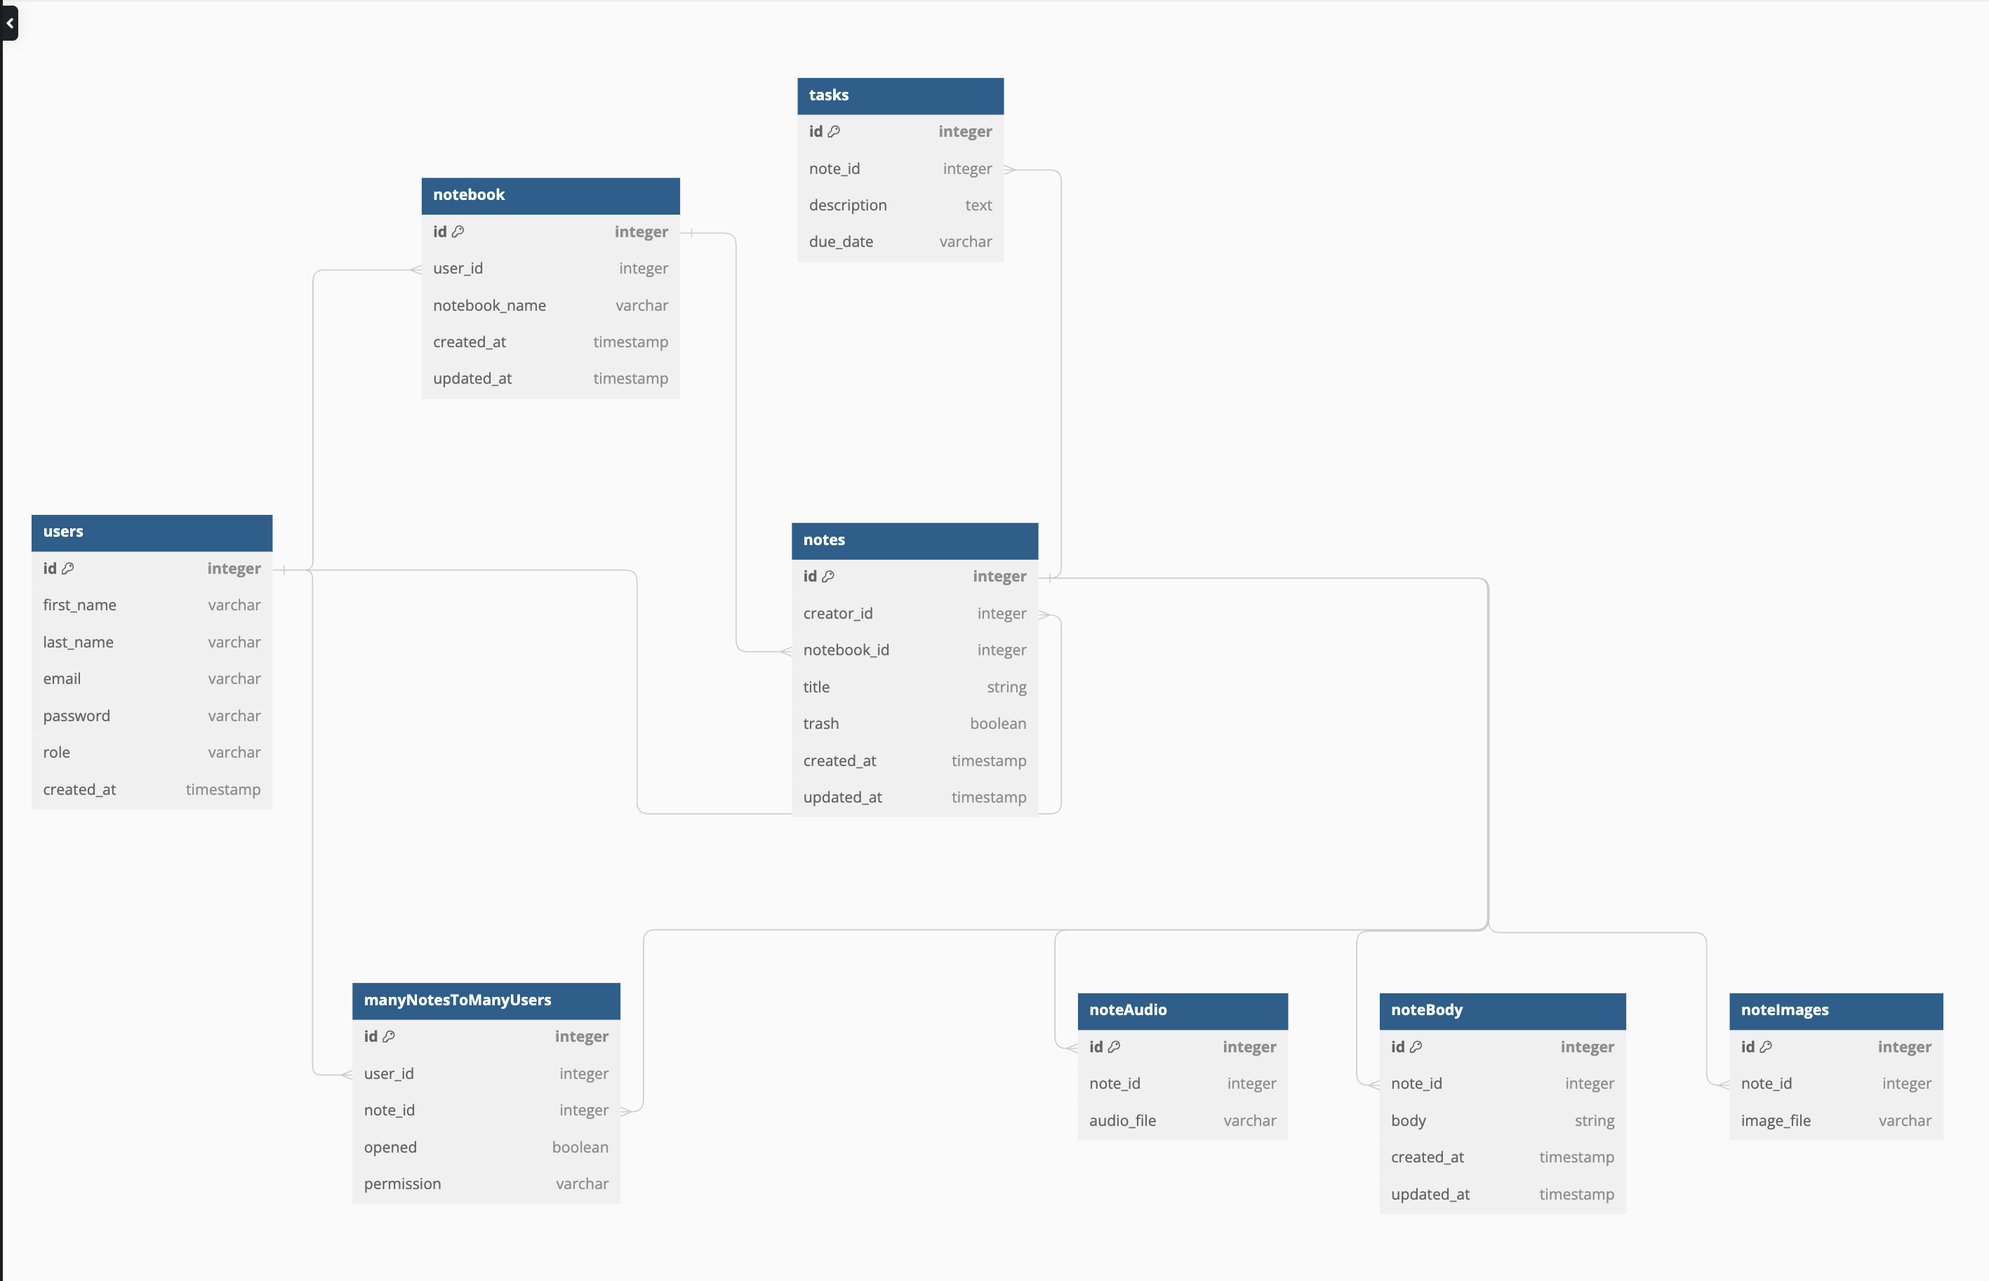
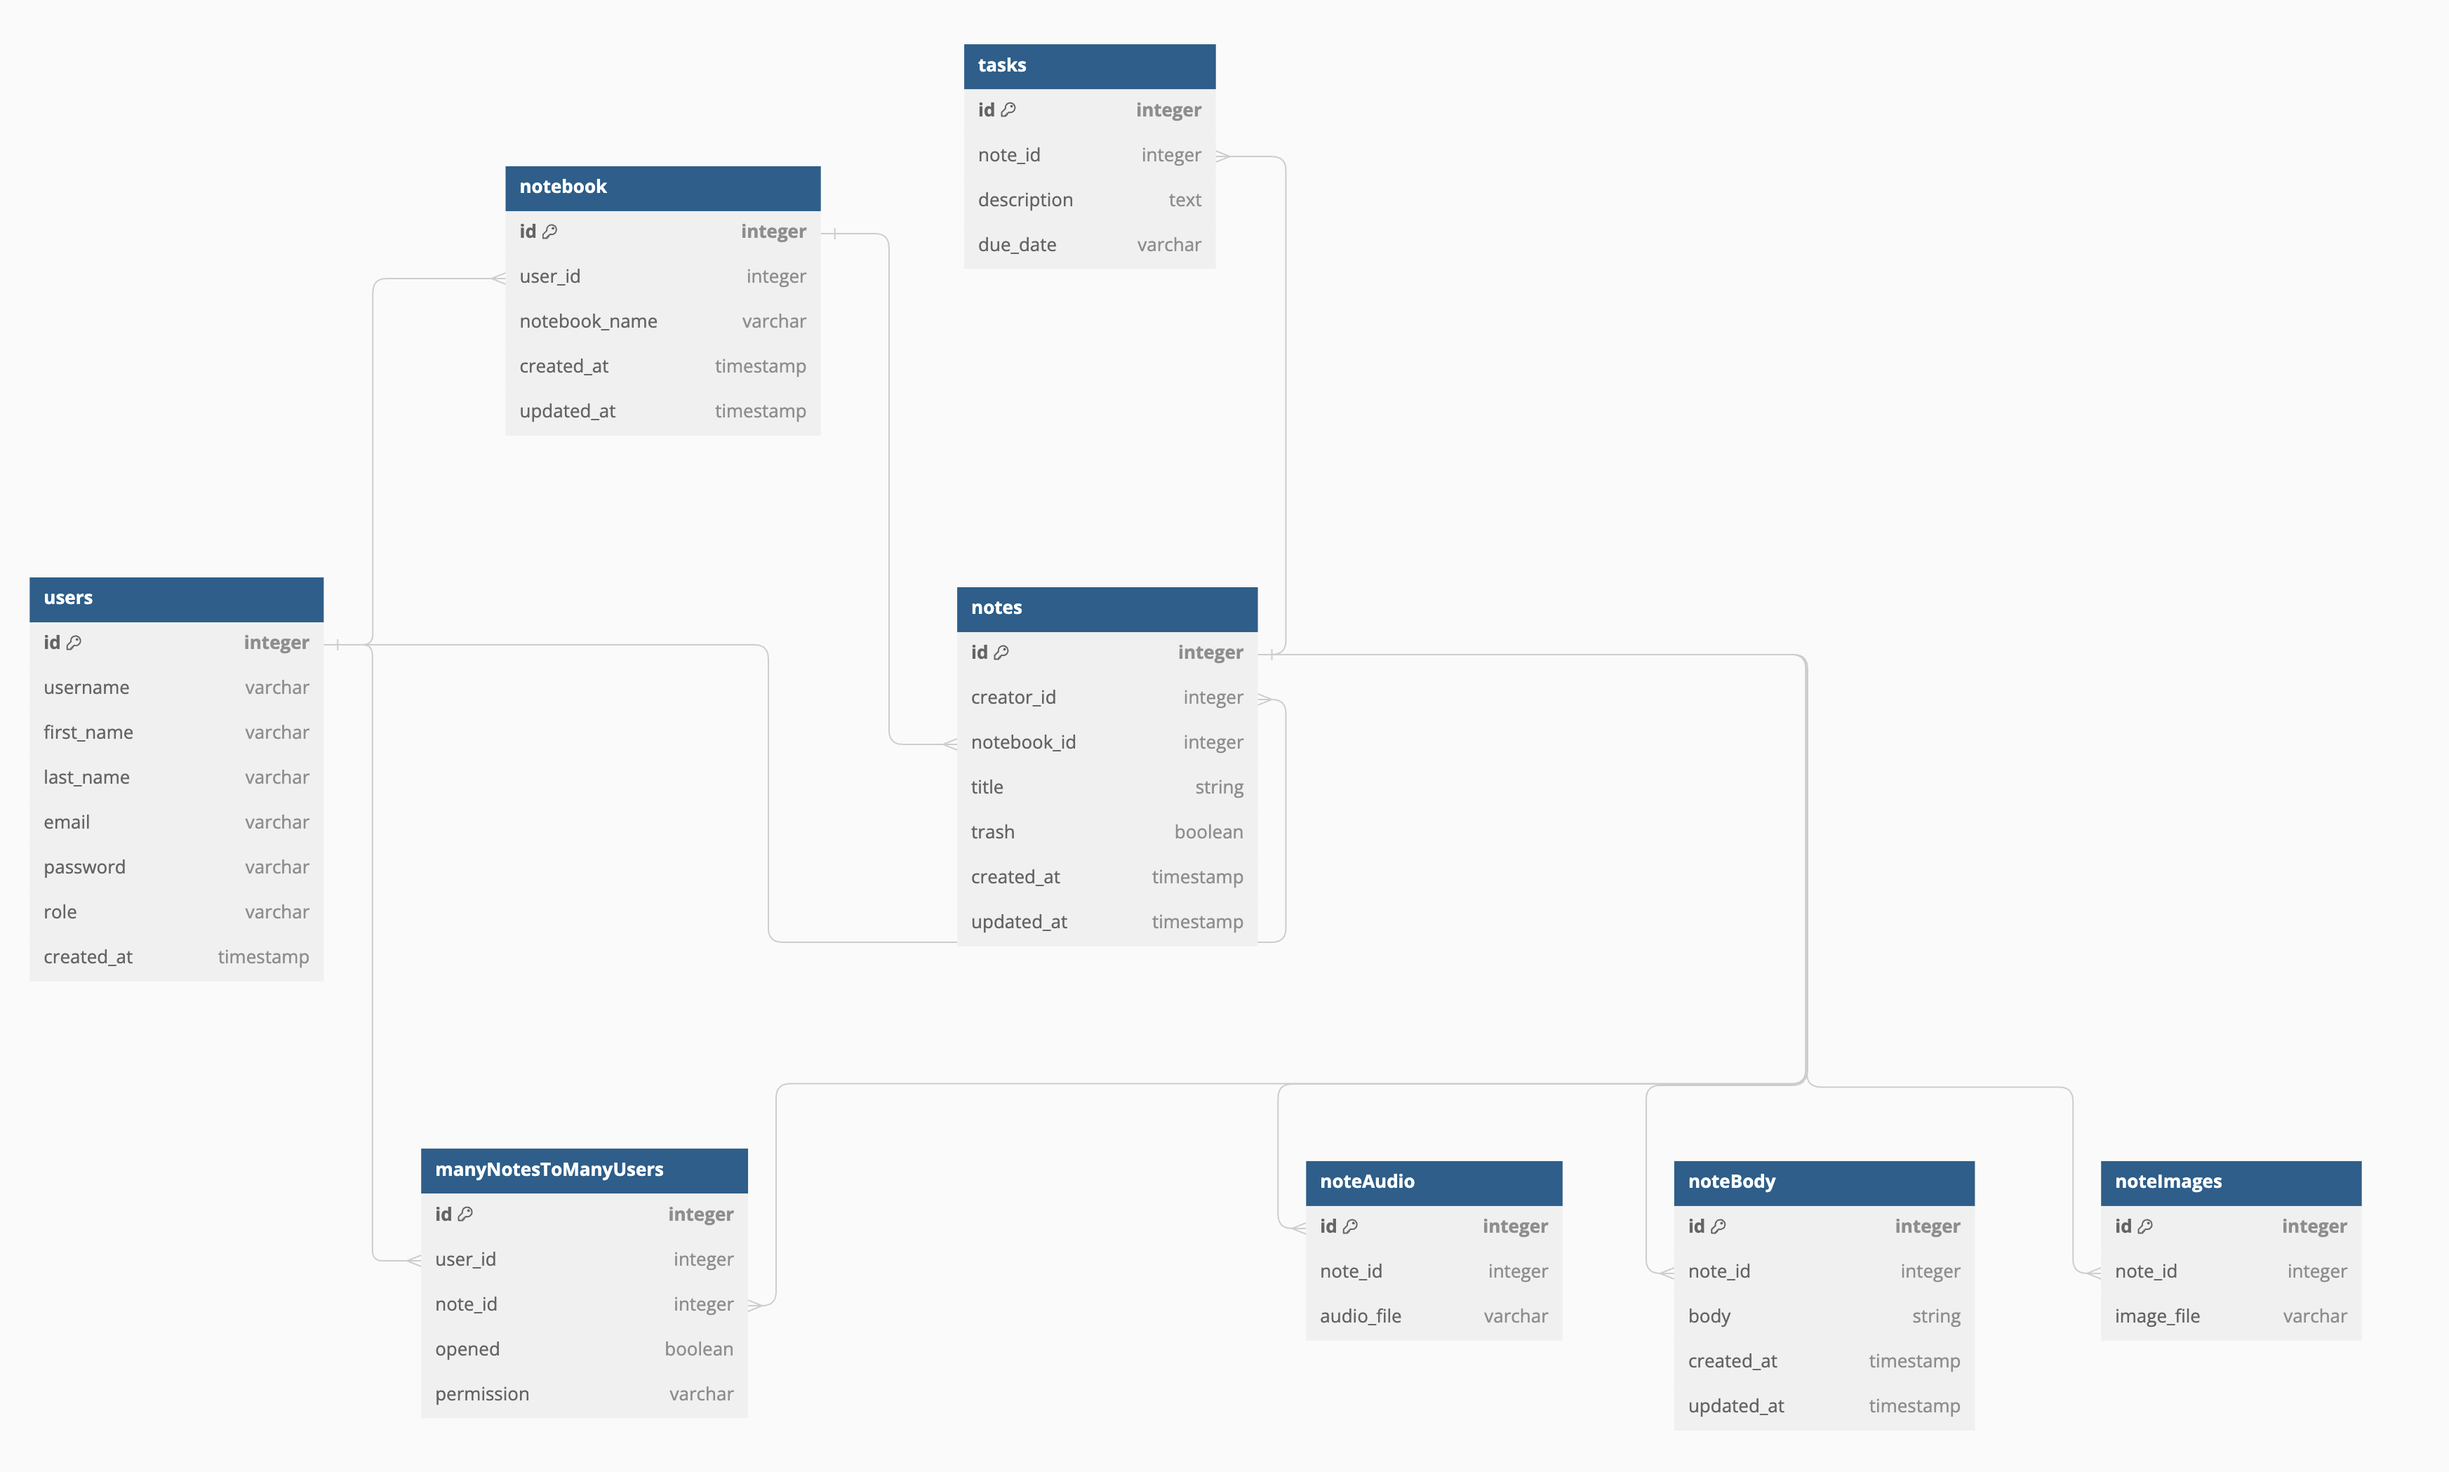
adding backend models

diff --git a/app/models/all_models.py b/app/models/all_models.py
@@ -1,0 +1,220 @@
+from .db import db, environment, SCHEMA, add_prefix_for_prod
+from werkzeug.security import generate_password_hash, check_password_hash
+from flask_login import UserMixin
+from datetime import datetime
+from sqlalchemy import Enum, DateTime
+from sqlalchemy import ForeignKey, String, Integer, Float, Boolean, Date, Text
+from sqlalchemy.orm import relationship
+
+many_cards_many_users = db.Table(
+    "users_notes",
+    db.Column("user_id", db.ForeignKey('users.id'), primary_key=True),
+    db.Column("note_id", db.ForeignKey('notes.id'), primary_key=True),
+    db.Column('opened', db.Boolean, default=False),
+    db.Column('permissions', db.Enum('View Only', 'View and Edit'), nullable=False)
+)
+if environment == "production":
+    many_cards_many_users.schema = SCHEMA
+
+
+class User(db.Model, UserMixin):
+    __tablename__ = 'users'
+
+    if environment == "production":
+        __table_args__ = {'schema': SCHEMA}
+
+    id = db.Column(db.Integer, primary_key=True)
+    username = db.Column(db.String(40), nullable=False, unique=True)
+    first_name = db.Column(db.String(40), nullable=False)
+    last_name = db.Column(db.String(40), nullable=False)
+    email = db.Column(db.String(255), nullable=False, unique=True)
+    role = db.Column(Enum('Captain', 'First Mate', 'Crew', 'Bucket swabbler'), nullable=False)
+    hashed_password = db.Column(db.String(255), nullable=False)
+    created_at = db.Column(DateTime, default=datetime.utcnow)
+
+    @property
+    def password(self):
+        return self.hashed_password
+
+    @password.setter
+    def password(self, password):
+        self.hashed_password = generate_password_hash(password)
+
+    def check_password(self, password):
+        return check_password_hash(self.password, password)
+
+    def to_dict(self):
+        return {
+            'id': self.id,
+            'username': self.username,
+            'first_name': self.first_name,
+            'last_name': self.last_name,
+            'email': self.email,
+            'role': self.role,
+            'created_at': self.created_at
+        }
+
+class Notebook(db.Model):
+    __tablename__ = 'notebooks'
+
+    if environment == "production":
+        __table_args__ = {'schema': SCHEMA}
+
+    id = db.Column(db.Integer, primary_key=True)
+    user_id = db.Column(db.Integer, db.ForeignKey(add_prefix_for_prod('users.id')))
+    notebook_name = db.Column(db.String(255))
+    created_at = db.Column(DateTime, default=datetime.utcnow)
+    updated_at = db.Column(DateTime, default=datetime.utcnow, onupdate=datetime.utcnow)
+
+    #The relationships attached to NoteBook
+    notebook_to_notes = db.relationship("Note", back_populates='notes_to_notebook', cascade="all, delete-orphan")
+
+
+    def to_dict(self):
+        return {
+            'id': self.id,
+            'user_id': self.user_id,
+            'notebook_name': self.notebook_name,
+            'created_at': self.created_at,
+            'updated_at': self.updated_at
+        }
+
+
+class Note(db.Model):
+    __tablename__ = 'notes'
+
+    if environment == "production":
+        __table_args__ = {'schema': SCHEMA}
+
+    id = db.Column(db.Integer, primary_key=True)
+    creator_id = db.Column(db.Integer, db.ForeignKey(add_prefix_for_prod('users.id')))
+    notebook_id = db.Column(db.Integer, db.ForeignKey(add_prefix_for_prod('notebooks.id')))
+    title = db.Column(db.String(255))
+    created_at = db.Column(DateTime, default=datetime.utcnow)
+    updated_at = db.Column(DateTime, default=datetime.utcnow, onupdate=datetime.utcnow)
+
+    #The relationships attached to Notes
+    notes_to_notebook = db.relationship("NoteBook", back_populates='notebook_to_notes')
+    notes_task = db.relationship("Task", back_populates='tasks_to_notes', cascade="all, delete-orphan")
+    notes_body = db.relationship("Body", back_populates='bodys_to_notes', cascade="all, delete-orphan")
+    notes_audio = db.relationship("NoteAudio", back_populates='audios_to_notes', cascade="all, delete-orphan")
+    notes_images = db.relationship("NoteImage", back_populates='images_to_notes', cascade="all, delete-orphan")
+
+    def to_dict(self):
+        return {
+            'id': self.id,
+            'creator_id': self.creator_id,
+            'notebook_id': self.notebook_id,
+            'title': self.title,
+            'created_at': self.created_at,
+            'updated_at': self.updated_at
+        }
+
+
+
+class Task(db.Model):
+    __tablename__ = 'tasks'
+
+    if environment == "production":
+        __table_args__ = {'schema': SCHEMA}
+
+    id = db.Column(db.Integer, primary_key=True)
+    note_id = db.Column(db.Integer, db.ForeignKey(add_prefix_for_prod('notes.id')))
+    body = db.Column(db.String(600))
+    due_date = db.Column(DateTime)
+
+    tasks_to_notes = db.relationship("Note", back_populates='notes_task')
+
+    def to_dict(self):
+        return {
+            'id': self.id,
+            'note_id': self.note_id,
+            'body': self.body,
+            'due_date': self.due_date
+        }
+
+
+
+
+class NoteBody(db.Model):
+    __tablename__ = 'notebodys'
+
+    if environment == "production":
+        __table_args__ = {'schema': SCHEMA}
+
+    id = db.Column(db.Integer, primary_key=True)
+    note_id = db.Column(db.Integer, db.ForeignKey(add_prefix_for_prod('notes.id')))
+    body = db.Column(db.String())
+    created_at = db.Column(DateTime, default=datetime.utcnow)
+    updated_at = db.Column(DateTime, default=datetime.utcnow, onupdate=datetime.utcnow)
+
+    bodys_to_notes = db.relationship("Note", back_populates='notes_body')
+
+    def to_dict(self):
+        return {
+            'id': self.id,
+            'note_id': self.note_id,
+            'body': self.body,
+            'created_at': self.created_at,
+            'updated_at': self.updated_at
+        }
+
+
+
+
+class NoteAudio(db.Model):
+    __tablename__ = 'note_audios'
+
+    if environment == "production":
+        __table_args__ = {'schema': SCHEMA}
+
+    id = db.Column(db.Integer, primary_key=True)
+    note_id = db.Column(db.Integer, db.ForeignKey(add_prefix_for_prod('notes.id')))
+    audio_file = db.Column(db.String())
+
+    audios_to_notes = db.relationship("Note", back_populates='notes_audio')
+
+    def to_dict(self):
+        return {
+            'id': self.id,
+            'note_id': self.note_id,
+            'audio_file': self.audio_file
+        }
+
+
+
+
+
+class NoteImage(db.Model):
+    __tablename__ = 'note_images'
+
+    if environment == "production":
+        __table_args__ = {'schema': SCHEMA}
+
+    id = db.Column(db.Integer, primary_key=True)
+    note_id = db.Column(db.Integer, db.ForeignKey(add_prefix_for_prod('notes.id')))
+    image_file = db.Column(db.String())
+
+    images_to_notes = db.relationship("Note", back_populates='notes_images')
+
+    def to_dict(self):
+        return {
+            'id': self.id,
+            'note_id': self.note_id,
+            'image_file': self.image_file
+        }
+
+
+
+
+
+
+
+
+
+
+
+
+
+
+#gimme space

diff --git a/app/models/notebook.py b/app/models/notebook.py
@@ -1,0 +1,5 @@
+from .db import db, environment, SCHEMA, add_prefix_for_prod
+from werkzeug.security import generate_password_hash, check_password_hash
+from flask_login import UserMixin
+from datetime import datetime
+from sqlalchemy import Enum, DateTime

diff --git a/app/models/__init__.py b/app/models/__init__.py
@@ -1,3 +1,3 @@
 from .db import db
-from .user import User
+from .all_models import User
 from .db import environment, SCHEMA
